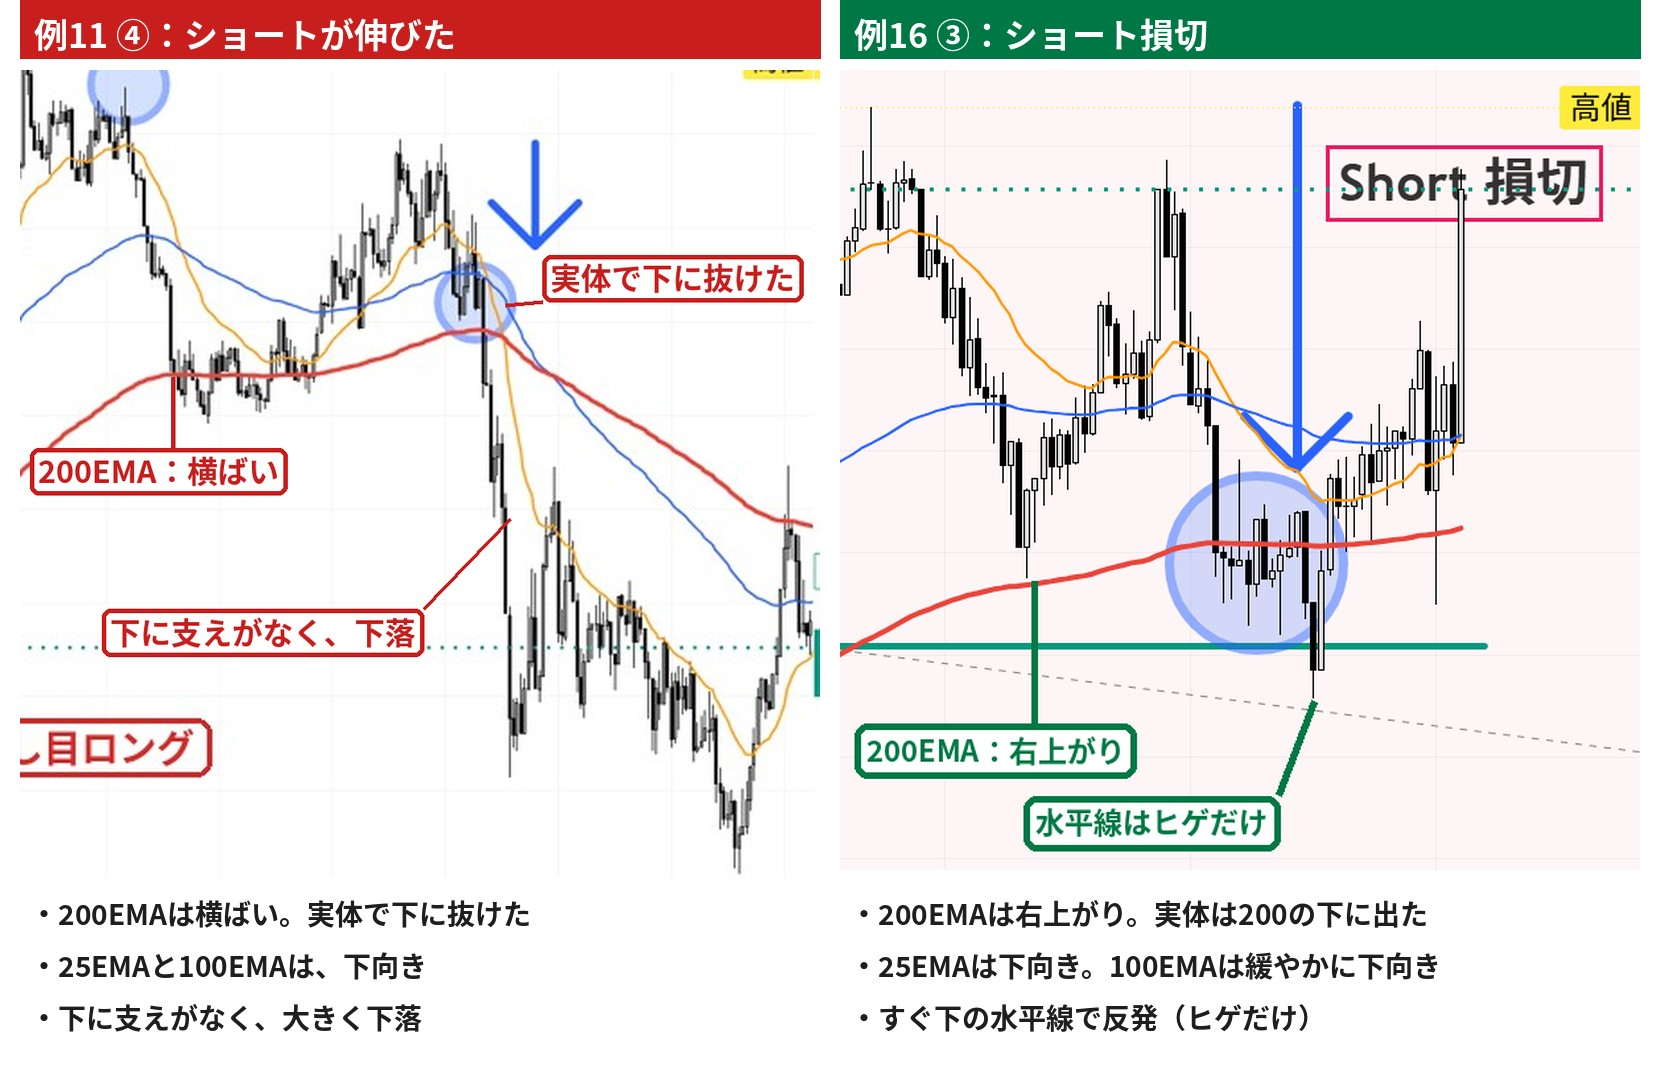
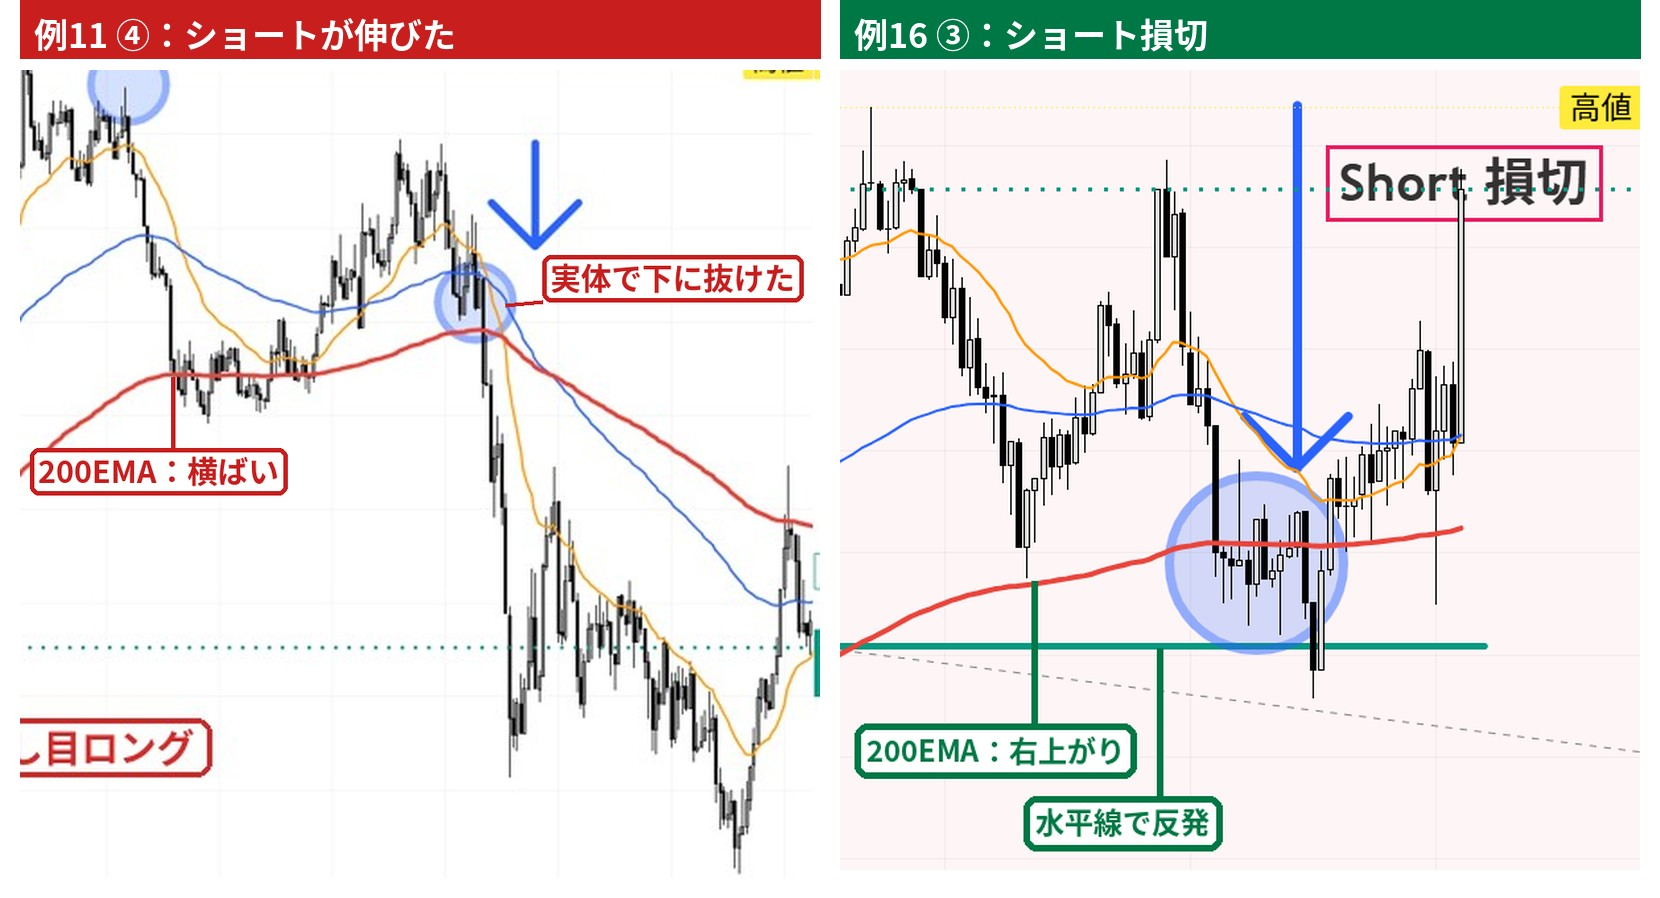
例16: 比較図と説明を短くした
Claude-Session: https://claude.ai/code/session_01HxS9YaEfLR2yPnioVsHz63

diff --git a/reversal.html b/reversal.html
@@ -96,12 +96,11 @@ body.lb-open { overflow: hidden; }
     </ul>
     <h3 class="part">例11 ④との違い</h3>
     <figure class="pic wide">
-      <a href="methods/rev-compare.jpg"><img src="methods/rev-compare.jpg" alt="左：例11 ④（200EMAは横ばいで、実体で下に抜けた。下に支えなし）、右：例16 ③（200EMAは右上がり。すぐ下の水平線で反発）" loading="lazy"></a>
+      <a href="methods/rev-compare.jpg"><img src="methods/rev-compare.jpg" alt="左：例11 ④（200EMAは横ばい、実体で下に抜けた）、右：例16 ③（200EMAは右上がり、水平線で反発）" loading="lazy"></a>
     </figure>
     <ul class="cap3">
-      <li>25EMAも100EMAも下向きで、200EMAを実体で抜けたところは、同じ。</li>
-      <li><b>違い①：200EMAの向き。</b>例11は横ばい、例16は右上がり。</li>
-      <li><b>違い②：下の余地。</b>例11は下に支えがなく、例16はすぐ下に水平線があった。</li>
+      <li><b>25EMA・100EMA・200EMAを、ちゃんと見る。</b></li>
+      <li><b>あとは、水平線。</b></li>
     </ul>
   </section>
 
